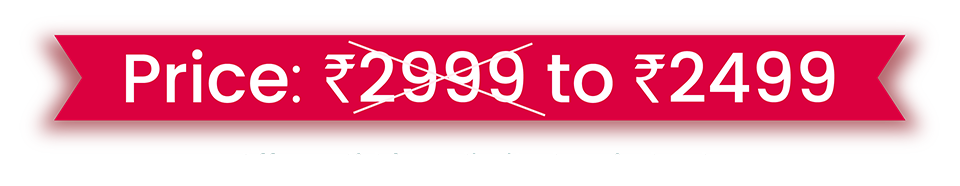
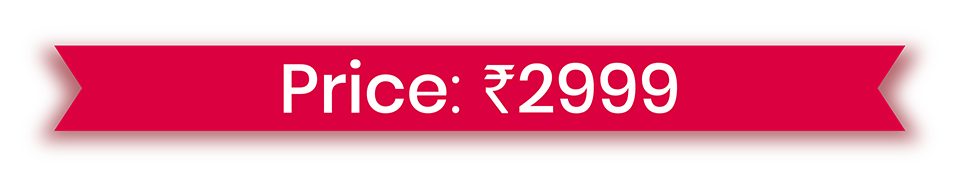
Price and Note added

diff --git a/config.php b/config.php
@@ -11,7 +11,7 @@ define('RAZORPAY_KEY_SECRET', 'T2bCGkWDZA0Q96Fq6yfD0CtG');
 
 // Product Details
 define('PRODUCT_NAME', 'Love & Her Sisters');
-define('PRODUCT_PRICE', 2499); // Price in Rupees
+define('PRODUCT_PRICE', 2999); // Price in Rupees
 define('CURRENCY', 'INR');
 
 // Delhivery Configuration
@@ -20,7 +20,7 @@ define('DELHIVERY_WAREHOUSE_NAME', 'Youngistan Creative And Digital Services Pvt
 define('DELHIVERY_IS_PRODUCTION', true); // Set to true for production
 
 // Email Configuration
-// define('ADMIN_EMAIL', 'positionwithpoems@gmail.com'); // Replace with admin email
+// define('ADMIN_EMAIL', 'nikhilgoku8@gmail.com'); // Replace with admin email
 define('ADMIN_EMAIL', 'positionwithpoems@gmail.com'); // Replace with admin email
 define('SMTP_HOST', 'smtp.gmail.com');
 define('SMTP_USER', 'nikhilgoku8@gmail.com');

diff --git a/includes/footer.php b/includes/footer.php
@@ -11,7 +11,7 @@
             <div class="price_band  fade-in-up-footer">
                 <img src="images/price-band.webp">
             </div>
-            <div class="offer_valid  fade-in-up-footer">Offer valid until January 31st, 2026</div>
+            <!-- <div class="offer_valid  fade-in-up-footer">Offer valid until January 31st, 2026</div> -->
             <div class="includes_premium  fade-in-up-footer">Includes premium packaging + book + pop-up message</div>
             <div class="order_now  fade-in-up-footer">Order Now | Gift Love Today</div>
             <div class="c2a_btn">

diff --git a/checkout.php b/checkout.php
@@ -186,6 +186,9 @@ document.getElementById('rzp-button1').onclick = function(e){
             "description": data.description,
             "image": "images/logo.png",
             "order_id": data.id, 
+            "notes": {
+                "source": "website"
+            },
             "handler": function (response){
                 // Submit payment details + form data to verify.php
                 var submitForm = document.createElement("form");

diff --git a/create-order.php b/create-order.php
@@ -12,7 +12,10 @@ try {
         'receipt' => $receiptId,
         'amount' => PRODUCT_PRICE * 100, // Amount in paise
         'currency' => CURRENCY,
-        'payment_capture' => 1 // Auto capture
+        'payment_capture' => 1, // Auto capture
+        'notes' => [
+            'source' => 'website'
+        ]
     ];
 
     $razorpayOrder = $api->order->create($orderData);
